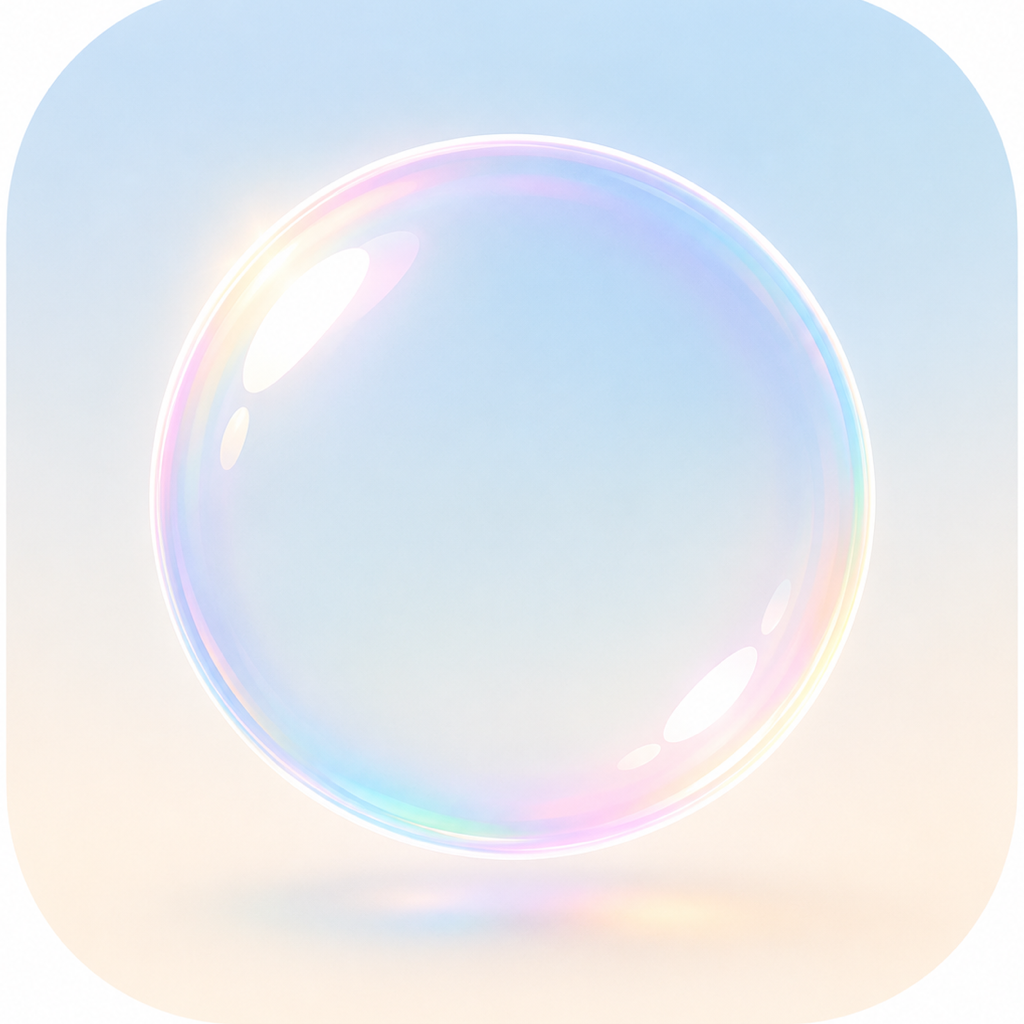
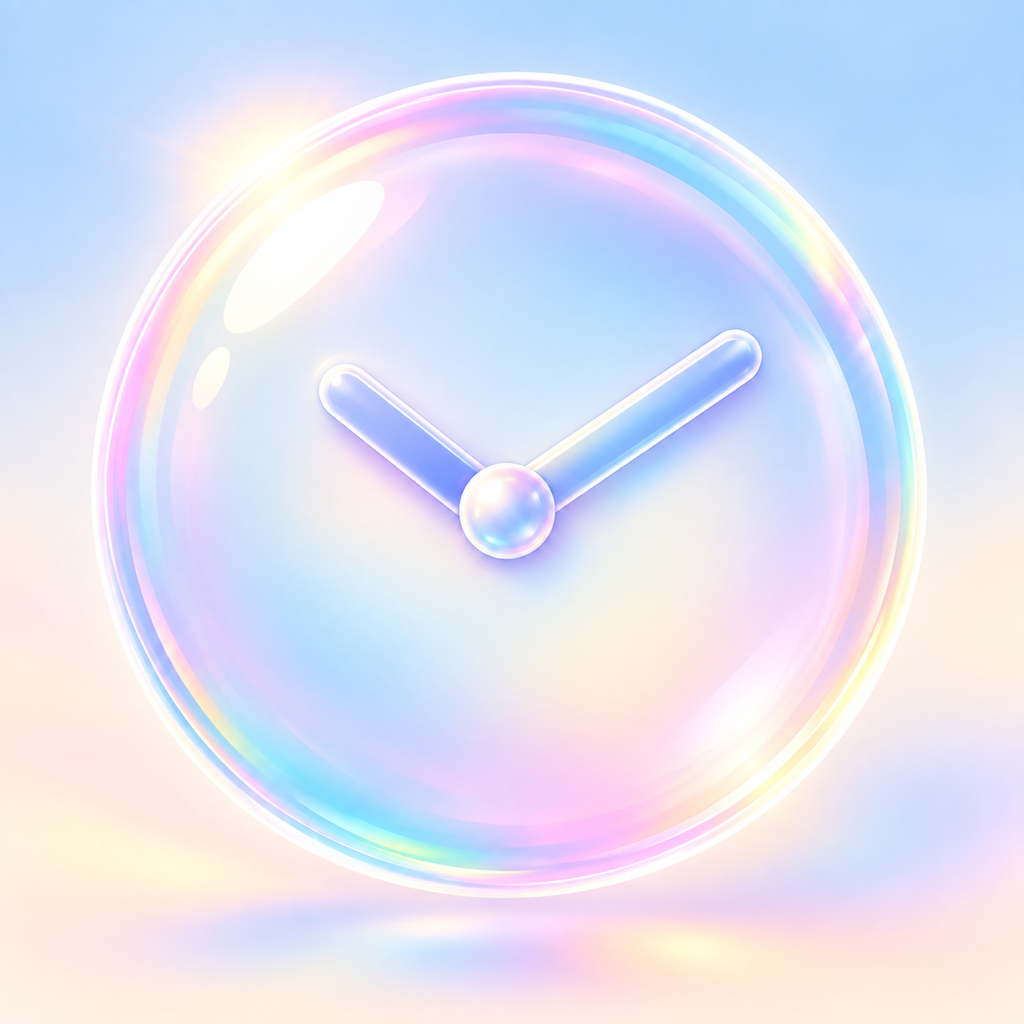
アイコンの刷新

diff --git a/config.release.test.js b/config.release.test.js
@@ -382,11 +382,11 @@ test('Android notification QA documents inexact DATE trigger tolerance', () => {
   assert.doesNotMatch(qaDocument, /^- \[ \] Android 12以降.*指定時刻に通知が届く$/m);
 });
 
-test('Android adaptive icon uses a transparent foreground asset', () => {
+test('Android adaptive icon uses a transparent foreground over the brand background color', () => {
   const adaptiveIconPath = join(__dirname, 'assets/adaptive-icon.png');
 
   assert.equal(appConfig.expo.android.adaptiveIcon.foregroundImage, './assets/adaptive-icon.png');
-  assert.equal(appConfig.expo.android.adaptiveIcon.backgroundImage, './assets/app-icon.png');
+  assert.equal(appConfig.expo.android.adaptiveIcon.backgroundImage, undefined);
   assert.equal(appConfig.expo.android.adaptiveIcon.backgroundColor, '#EFF8FF');
   assert.equal(existsSync(adaptiveIconPath), true);
   assert.equal(readPngColorType(adaptiveIconPath), 6);
@@ -408,6 +408,10 @@ test('brand image sources and committed native assets stay in sync', () => {
     join(__dirname, 'android/app/src/main/res/mipmap-anydpi-v26/ic_launcher.xml'),
     'utf8',
   );
+  const androidColorsXml = readFileSync(
+    join(__dirname, 'android/app/src/main/res/values/colors.xml'),
+    'utf8',
+  );
 
   assert.deepEqual(readPngDimensions(appIconPath), { width: 1024, height: 1024 });
   assert.equal(readPngColorType(appIconPath), 2);
@@ -418,10 +422,11 @@ test('brand image sources and committed native assets stay in sync', () => {
   for (const nativeSplashPath of iosNativeSplashPaths) {
     assert.equal(readFileSha256(nativeSplashPath), readFileSha256(iosSplashPath));
   }
-  assert.match(androidAdaptiveXml, /@mipmap\/ic_launcher_background/);
+  assert.match(androidAdaptiveXml, /@color\/iconBackground/);
+  assert.match(androidColorsXml, /<color name="iconBackground">#EFF8FF<\/color>/);
   assert.equal(
     existsSync(
-      join(__dirname, 'android/app/src/main/res/mipmap-xxxhdpi/ic_launcher_background.webp'),
+      join(__dirname, 'android/app/src/main/res/mipmap-xxxhdpi/ic_launcher_foreground.webp'),
     ),
     true,
   );
@@ -448,6 +453,17 @@ test('release runbook documents Android-first and iOS-later commands', () => {
   assert.match(runbook, /初回リリースの正式機能/);
   assert.doesNotMatch(runbook, /Widgetは別タスク/);
   assert.doesNotMatch(runbook, /削除依頼/);
+});
+
+test('local EAS runbook records the verified build environment and protects signing logs', () => {
+  const runbook = readFileSync(join(__dirname, 'docs/RELEASE_ANDROID_IOS.md'), 'utf8');
+
+  assert.match(runbook, /EAS_LOCAL_BUILD_WORKINGDIR="\$HOME\/tmp\/pop-reminder-eas-build-\$\(date/);
+  assert.match(runbook, /eas-cli@24\.8\.0/);
+  assert.match(runbook, /ビルドログ.*Keystore.*パスワード/);
+  assert.match(runbook, /Reanimated `4\.1\.7` と Worklets `0\.5\.1`/);
+  assert.match(runbook, /依存関係の更新なしで.*成功/s);
+  assert.doesNotMatch(runbook, /Reanimated `4\.3\.x`.*Worklets `0\.8\.x`/s);
 });
 
 test('store listing draft documents privacy and platform release notes', () => {

diff --git a/src/widget/widgetTaskHandler.ui.spec.tsx b/src/widget/widgetTaskHandler.ui.spec.tsx
@@ -1,9 +1,17 @@
-import type { WidgetTaskHandlerProps } from 'react-native-android-widget';
+import type { WidgetInfo, WidgetTaskHandlerProps } from 'react-native-android-widget';
 
 const mockInitialize = jest.fn(async () => {});
 const mockSnapshot = jest.fn(async () => ({ reminders: [], theme: 'lavender' }));
 const mockDelete = jest.fn(async (_id: string) => true);
 const mockUpdate = jest.fn(async () => {});
+const mockUpdateById = jest.fn(
+  async ({ renderWidget }: { renderWidget: (info: WidgetInfo) => unknown }) => {
+    renderWidget({ width: 360, height: 320 } as WidgetInfo);
+  },
+);
+jest.mock('react-native-android-widget', () => ({
+  requestWidgetUpdateById: (args: Parameters<typeof mockUpdateById>[0]) => mockUpdateById(args),
+}));
 jest.mock('../db/client', () => ({ initializeDatabase: () => mockInitialize() }));
 jest.mock('../bootstrap/appServices', () => ({
   widgetServices: { reminders: { delete: (id: string) => mockDelete(id) } },
@@ -69,10 +77,25 @@ test('an old event render completes before deletion and rapid duplicate deletion
   expect(mockDelete).not.toHaveBeenCalled();
   release({ reminders: [], theme: 'lavender' });
   await Promise.all([update, deletion]);
-  expect(old.renderWidget).toHaveBeenCalledTimes(1);
+  expect(mockUpdateById).toHaveBeenCalledTimes(1);
   mockDelete.mockResolvedValueOnce(false);
   await widgetTaskHandler(props('WIDGET_CLICK'));
   expect(mockUpdate).toHaveBeenCalledTimes(1);
+});
+
+test('queued widget event renders with current dimensions after its size changes', async () => {
+  const event = props('WIDGET_RESIZED');
+  await widgetTaskHandler(event);
+
+  expect(mockUpdateById).toHaveBeenCalledWith(
+    expect.objectContaining({ widgetId: 1, widgetName: 'PopReminderWidget' }),
+  );
+  const request = mockUpdateById.mock.calls[0][0];
+  const widget = request.renderWidget({ width: 360, height: 320 } as WidgetInfo) as {
+    props: { widgetWidth: number; widgetHeight: number };
+  };
+  expect(widget.props).toEqual(expect.objectContaining({ widgetWidth: 360, widgetHeight: 320 }));
+  expect(event.renderWidget).not.toHaveBeenCalled();
 });
 
 test('failure does not poison subsequent widget tasks or render an empty success', async () => {

diff --git a/src/widget/widgetTaskHandler.tsx b/src/widget/widgetTaskHandler.tsx
@@ -1,4 +1,4 @@
-import type { WidgetTaskHandlerProps } from 'react-native-android-widget';
+import { requestWidgetUpdateById, type WidgetTaskHandlerProps } from 'react-native-android-widget';
 
 import { widgetServices } from '../bootstrap/appServices';
 import { initializeDatabase } from '../db/client';
@@ -41,14 +41,18 @@ export async function widgetTaskHandler(props: WidgetTaskHandlerProps) {
       stage = 'snapshot';
       const snapshot = await getWidgetSnapshot();
       stage = 'render';
-      props.renderWidget(
-        <PopReminderWidget
-          reminders={snapshot.reminders}
-          theme={snapshot.theme}
-          widgetWidth={props.widgetInfo.width}
-          widgetHeight={props.widgetInfo.height}
-        />,
-      );
+      await requestWidgetUpdateById({
+        widgetName: props.widgetInfo.widgetName,
+        widgetId: props.widgetInfo.widgetId,
+        renderWidget: ({ width, height }) => (
+          <PopReminderWidget
+            reminders={snapshot.reminders}
+            theme={snapshot.theme}
+            widgetWidth={width}
+            widgetHeight={height}
+          />
+        ),
+      });
     } catch (error) {
       console.warn('[Widget] Task failed', {
         widgetId: props.widgetInfo.widgetId,

diff --git a/android/app/src/androidTest/java/com/reactnativeandroidwidget/WidgetImageProviderTest.java b/android/app/src/androidTest/java/com/reactnativeandroidwidget/WidgetImageProviderTest.java
@@ -1,0 +1,47 @@
+package com.reactnativeandroidwidget;
+
+import android.content.Context;
+import android.graphics.Bitmap;
+import android.graphics.BitmapFactory;
+
+import androidx.test.ext.junit.runners.AndroidJUnit4;
+import androidx.test.platform.app.InstrumentationRegistry;
+
+import org.junit.Test;
+import org.junit.runner.RunWith;
+
+import java.io.File;
+import java.io.FileInputStream;
+
+import static org.junit.Assert.assertEquals;
+import static org.junit.Assert.assertNotNull;
+
+@RunWith(AndroidJUnit4.class)
+public class WidgetImageProviderTest {
+    @Test
+    public void anOpenLauncherReadKeepsThePreviousCompleteImageDuringRefresh() throws Exception {
+        Context context = InstrumentationRegistry.getInstrumentation().getTargetContext();
+        File file = new File(new File(context.getFilesDir(), "widget_images"), "widget_atomic_test.png");
+        Bitmap first = Bitmap.createBitmap(2, 2, Bitmap.Config.ARGB_8888);
+        Bitmap second = Bitmap.createBitmap(2, 2, Bitmap.Config.ARGB_8888);
+        first.eraseColor(0xffff0000);
+        second.eraseColor(0xff0000ff);
+
+        try {
+            RNWidgetImageProvider.writeImage(context, file.getName(), first);
+            try (FileInputStream launcherRead = new FileInputStream(file)) {
+                RNWidgetImageProvider.writeImage(context, file.getName(), second);
+                Bitmap observed = BitmapFactory.decodeStream(launcherRead);
+                assertNotNull(observed);
+                assertEquals(0xffff0000, observed.getPixel(0, 0));
+            }
+            Bitmap current = BitmapFactory.decodeFile(file.getPath());
+            assertNotNull(current);
+            assertEquals(0xff0000ff, current.getPixel(0, 0));
+        } finally {
+            file.delete();
+            first.recycle();
+            second.recycle();
+        }
+    }
+}

diff --git a/docs/QA_DEVELOPMENT_BUILD.md b/docs/QA_DEVELOPMENT_BUILD.md
@@ -655,6 +655,7 @@ iOSはWidgetKitのTimelineで予測可能な時刻の表示切り替えと、デ
 - [ ] 先頭領域はcompactで64dp、それ以外で92dp。後続行は48dp、追加ボタンは48dp以上の高さと横幅いっぱいの領域を保つ
 - [ ] ヘッダーは小さな「ふわっと。」と「次のリマインド」。取得上限を総件数と誤認させる件数表示は行わない
 - [ ] 予定数にかかわらず追加ボタンは下端に固定し、予定や詳細のタップ領域と重ならない
+- [ ] Widgetを配置した直後とアプリ再起動後に、追加ボタンと空状態または予定が表示され、何も描画されない状態にならない
 
 #### テーマと可読性
 
@@ -676,6 +677,8 @@ iOSはWidgetKitのTimelineで予測可能な時刻の表示切り替えと、デ
 - [ ] 更新前Widgetの削除Intentは互換性を保ち、次の更新で新レイアウトに置き換わる
 - [ ] 削除後に該当予定の通知予約がキャンセルされ、アプリと配置済みの複数 Widget に反映される
 - [ ] 追加・削除・タイトル更新後に、既存の取得順で先頭予定と後続行が更新される
+- [ ] 同じサイズのWidgetで予定を0→1→複数件→1→0件と続けて変更しても、追加ボタンの下端位置が動かず、表示が消えない
+- [ ] Widgetのリサイズ直後に予定を追加・削除しても、更新画像と追加ボタンのタップ領域が現在のWidgetサイズに一致する
 - [ ] リサイズ前後で予定が重ならず、文字やタップ領域が枠からはみ出さない
 - [ ] TalkBackで詳細・追加が別々に選択でき、詳細は省略前のタイトル・日時・期限済み状態を読み上げる。装飾泡は独立した操作として読み上げない
 - [ ] 押下表示が角丸領域に収まり、四角い枠が出ない
